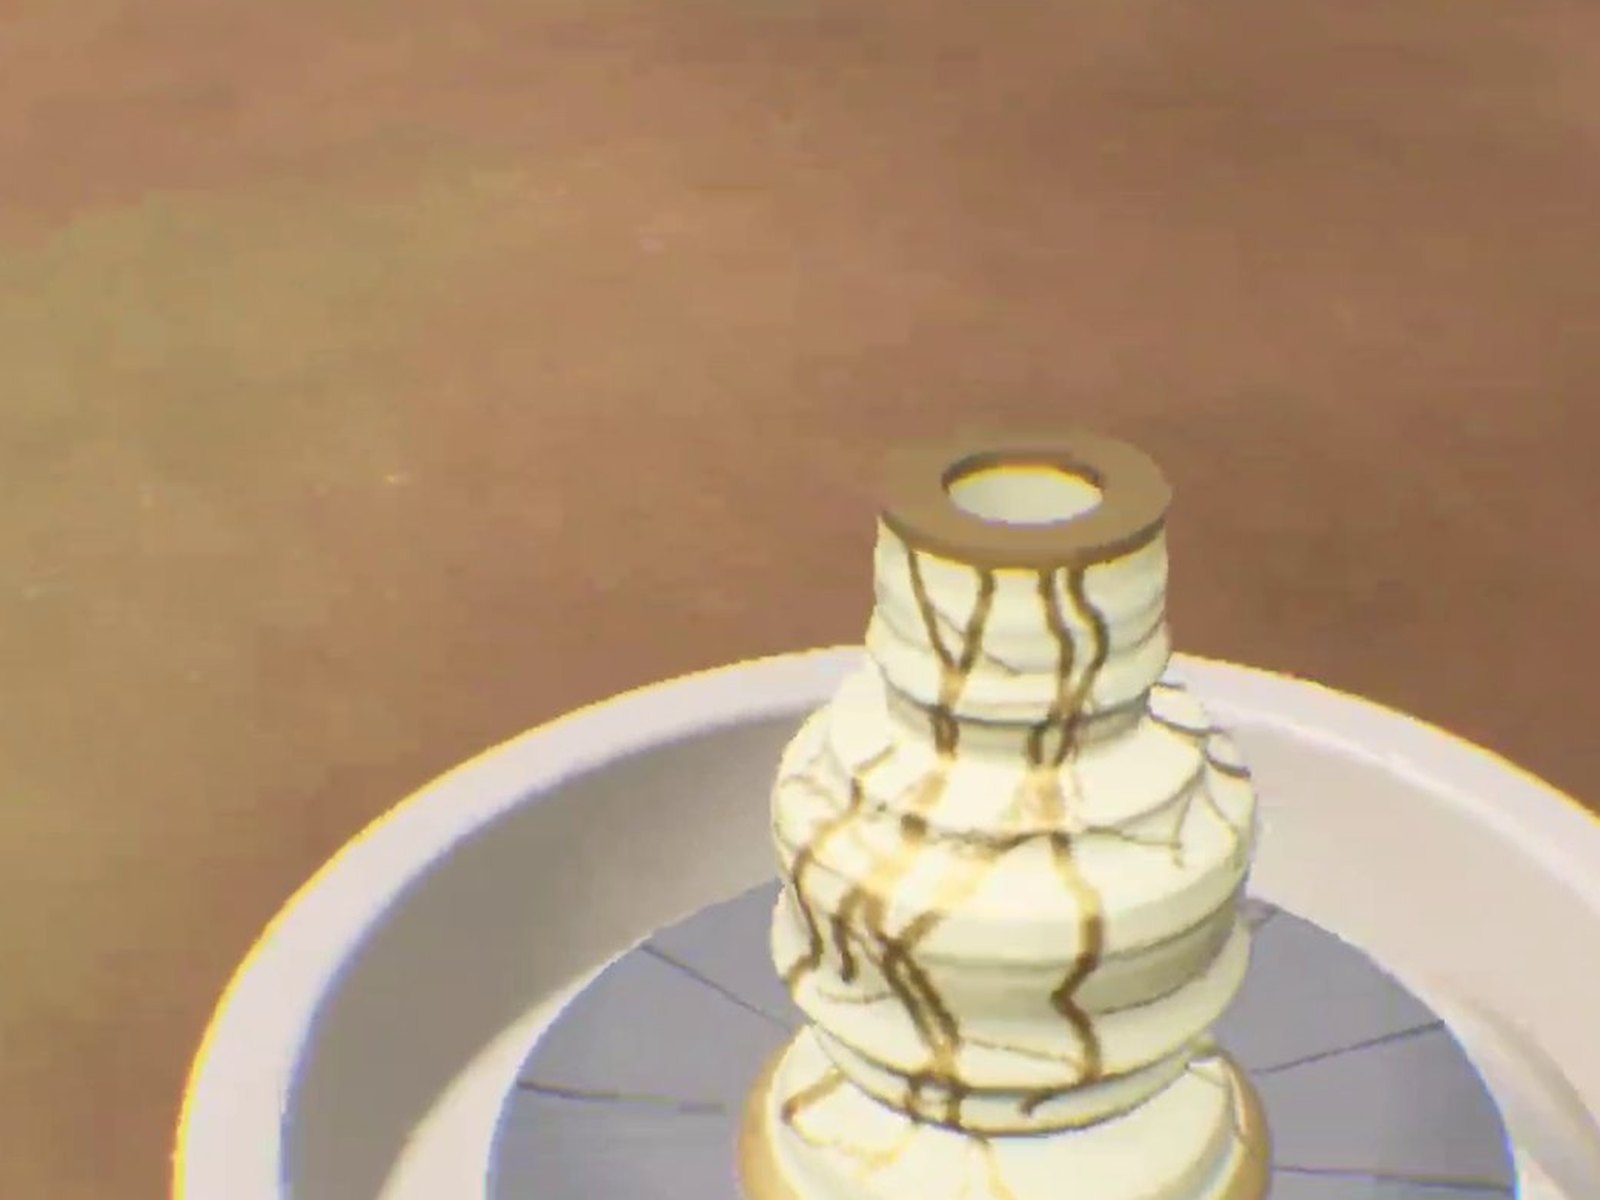
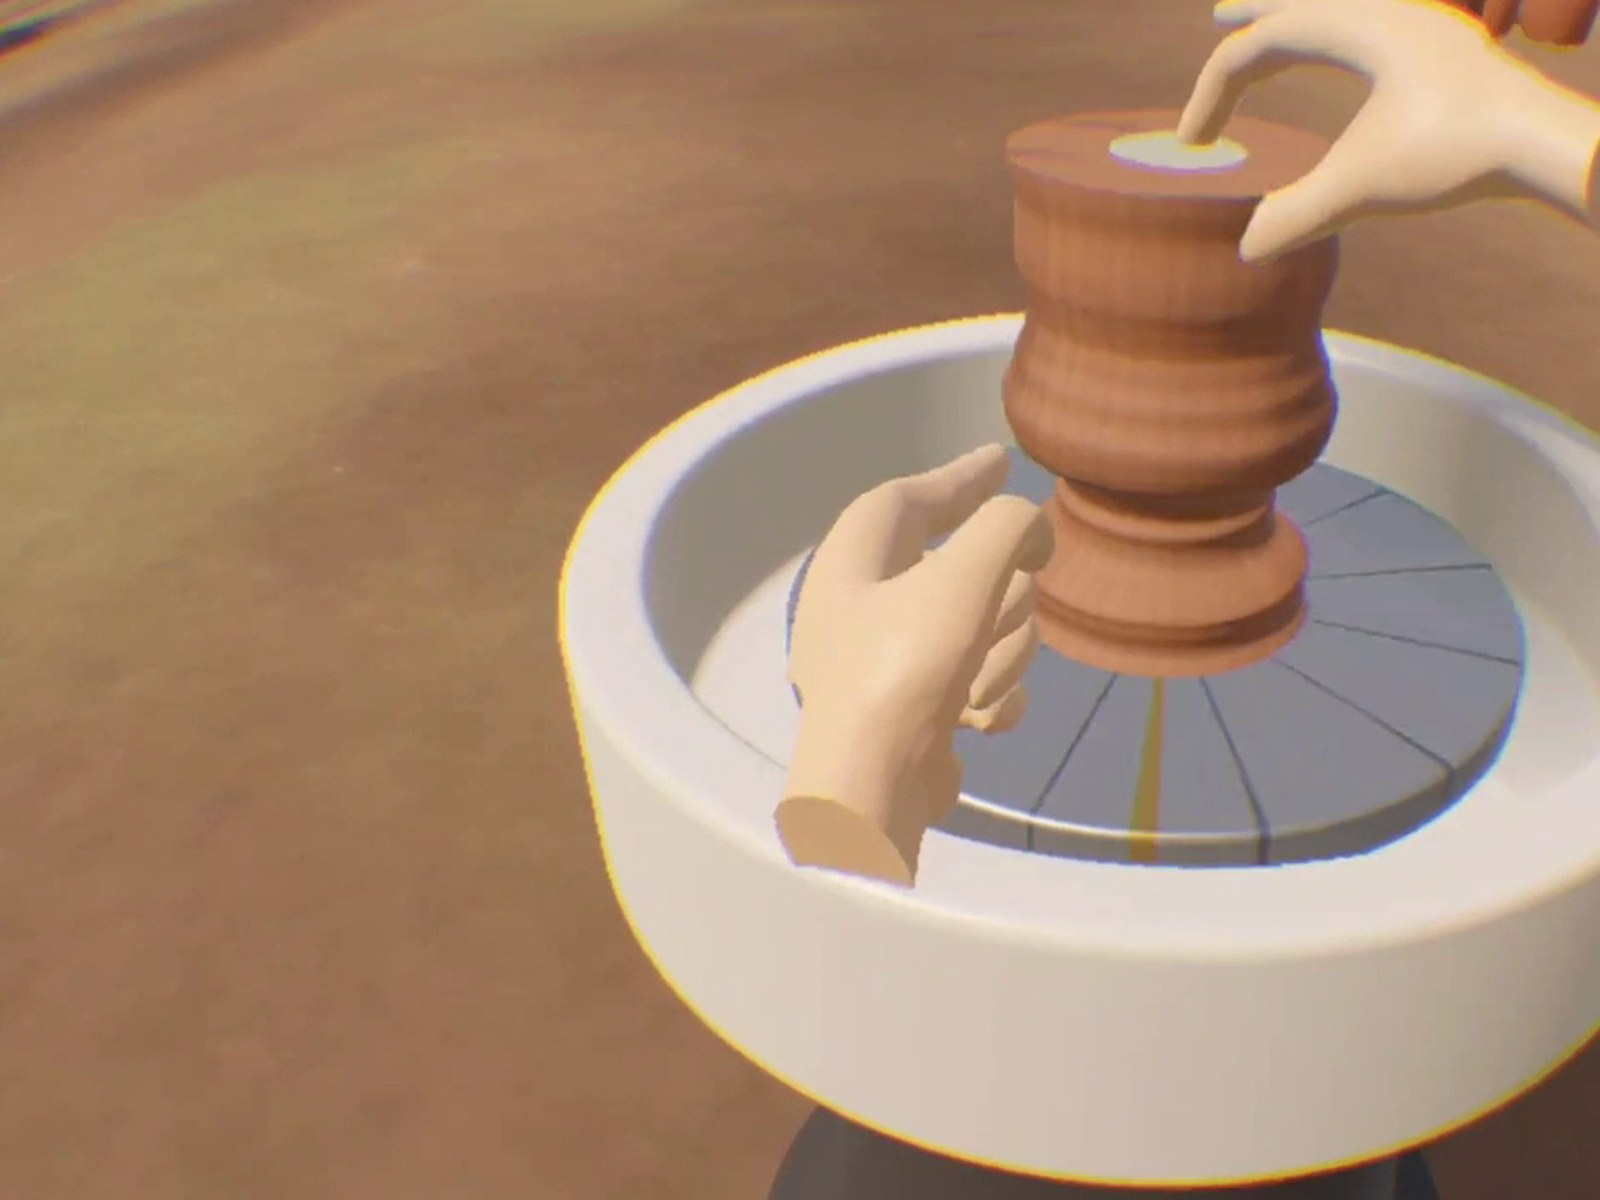
NeuroPottery: align journey images, new cover, simpler credit, session steps
Claude-Session: https://claude.ai/code/session_01A8q8ZmU4ViX8dwVoBFpkrS

diff --git a/neuropottery.html b/neuropottery.html
@@ -26,7 +26,7 @@
   <div style="height:40px"></div>
   <p>Making things is physical. People living with paralysis, ALS or after a stroke cannot throw a pot, and friends, families and therapy partners who live apart rarely get to make something together. Most brain-computer interfaces move a cursor; they rarely let people create.</p>
   <p>NeuroPottery splits pottery between two people in virtual reality. One person’s brain signals turn the wheel, add water and fire the kiln. The other person’s hands shape the clay. Neither can finish the pot alone, and every pot records both of them.</p>
-  <p class="meta">Second place in the BCI programming and arts category at the BR41N.IO Brain-Computer Interface Designers’ Hackathon, organised by g.tec medical engineering at IEEE SMC 2026, Seattle, October 4–5 · team Cracked Pots: Harshiddhi Pathak, Neeta Khanuja and Param Rajpura · HAIx Lab, IIT Gandhinagar, and HCII, Carnegie Mellon</p>
+  <p class="meta">Second place in the BCI programming and arts category at the BR41N.IO Brain-Computer Interface Designers’ Hackathon, organised by g.tec medical engineering at IEEE SMC 2026, Seattle, October 4–5 · with Harshiddhi Pathak and Param Rajpura</p>
   <p class="meta">Role: ideation and narrative</p>
 </section>
 
@@ -99,6 +99,13 @@
         <li><b>UDP over Wi-Fi</b>10 packets per second</li>
         <li><b>the Hands</b>Unity 6 on VIVE Focus Vision, hand tracking</li>
       </ol>
+      <p class="meta" style="margin:28px 0 12px">each session</p>
+      <ul class="week wide-b">
+        <li><b>calibrate</b><span>30 seconds: relax for 15, then focus for 15.</span></li>
+        <li><b>throw</b><span>Focus spins the wheel, the Hands shape the clay, a clench adds water.</span></li>
+        <li><b>fire</b><span>Two or three blinks start the kiln, and calm heats it. Firing takes 25 seconds and can be adjusted.</span></li>
+        <li><b>result</b><span>Moisture, focus and calm together decide how the pot turns out.</span></li>
+      </ul>
     </div>
   </article>
 

diff --git a/design.html b/design.html
@@ -28,7 +28,7 @@
 
 <section class="plist grid2">
   <a class="prow" href="neuropottery.html">
-    <span class="pthumb"><img class="box" src="img/design/K.jpg" alt="NeuroPottery cover: a virtual pot with gold crackle on a potter’s wheel" loading="lazy"></span>
+    <span class="pthumb"><img class="box" src="img/design/K.jpg" alt="NeuroPottery cover: virtual hands pulling up the walls of a clay pot on a potter’s wheel" loading="lazy"></span>
     <span class="ptxt"><b>NeuroPottery</b><span>A shared pottery wheel in VR: one person’s brain signals turn the wheel and fire the kiln, another person’s hands shape the clay.</span><em>BR41N.IO hackathon, IEEE SMC 2026 · <span class="award">2nd place</span> · read more</em></span>
   </a>
   <a class="prow" href="emotion-cards.html">

diff --git a/style.css b/style.css
@@ -471,3 +471,5 @@ img.box{display:block;width:100%;height:auto}
 .np-flow li::before{counter-increment:f;content:counter(f);position:absolute;left:0;top:12px;color:var(--mute);font-style:italic}
 .np-flow li b{display:block;font-weight:700}
 .np-flow li + li::after{content:"";}
+.w-days.np-grid{align-items:start}
+.days-grid.w-days.np-grid img{aspect-ratio:4/5;object-fit:cover;object-position:50% 70%}
